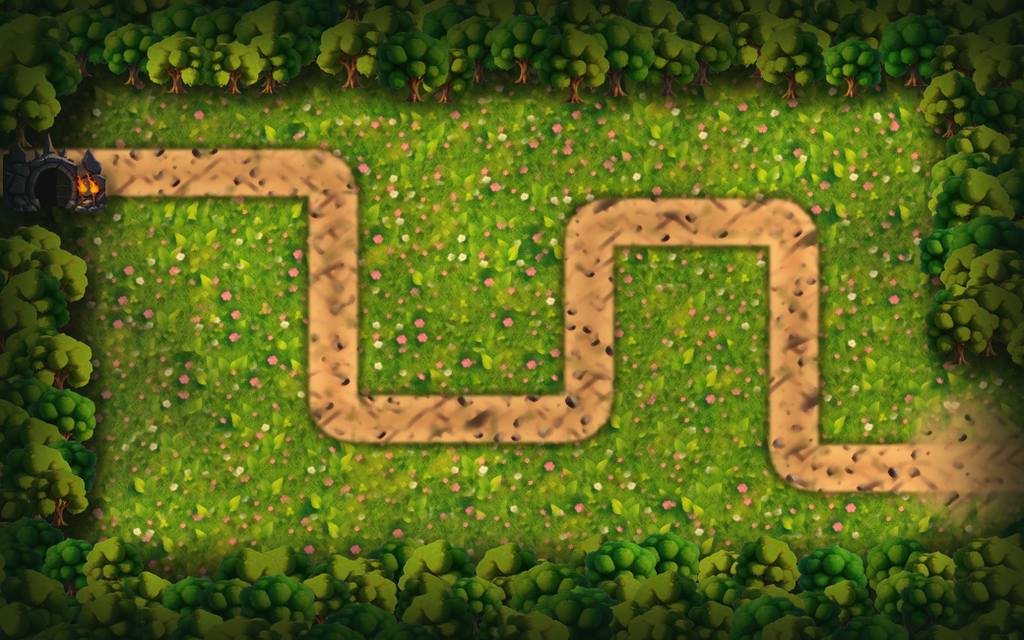
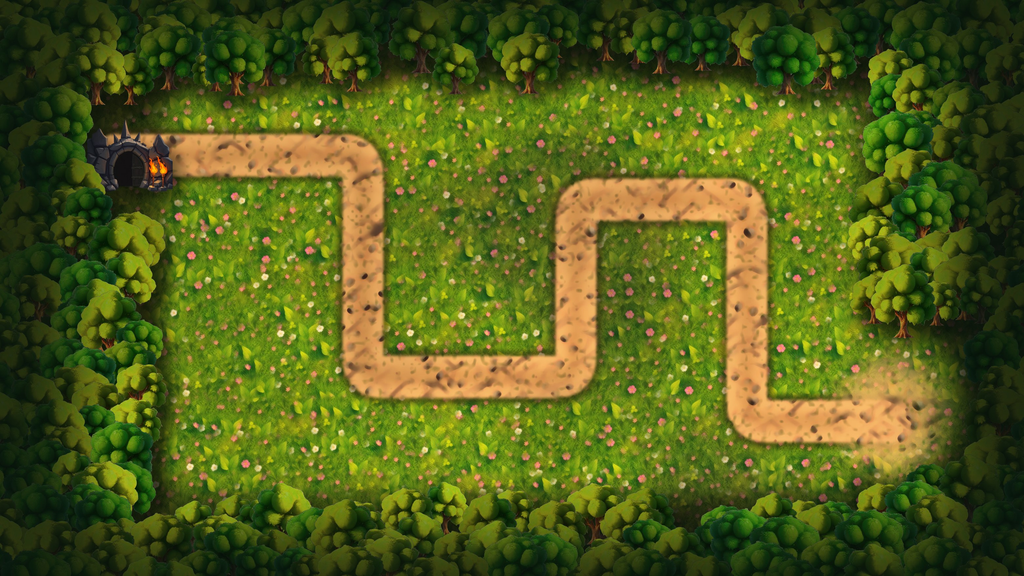
Widen the forest margin to four cells left and right
The board below the top bar is up to 22.7 cells wide on iPhone, so a
two-cell margin left bare strips. Ground repainted at 24 x 13 cells,
path ending in the cave and at the fortress.

Claude-Session: https://claude.ai/code/session_019baiHSQy19cYFPdUhfm42L

diff --git a/App/Battle/BattleStyle.swift b/App/Battle/BattleStyle.swift
@@ -13,9 +13,10 @@ enum BattleStyle {
     static let buildZone = SKColor(white: 1, alpha: 0.07)
     static let buildZoneInset: CGFloat = 0.06
     /// So viele Zellen reicht der gemalte Boden links und rechts (`width`) und
-    /// oben und unten (`height`) über das Feld hinaus. Steht auch im
-    /// Asset-Vertrag (`rand`).
-    static let groundMargin = CGSize(width: 2, height: 2)
+    /// oben und unten (`height`) über das Feld hinaus. Unter der Kopfleiste ist
+    /// die Karte auf dem iPhone bis zu 22,7 Zellen breit, auf dem iPad bis zu
+    /// 11,3 hoch. Steht auch im Asset-Vertrag (`rand`).
+    static let groundMargin = CGSize(width: 4, height: 2)
 
     static func towerColor(_ kind: TowerKind) -> SKColor {
         switch kind {

diff --git a/tools/art-check/tests/test_art.py b/tools/art-check/tests/test_art.py
@@ -304,17 +304,18 @@ class Kampfplatzbild(unittest.TestCase):
         karte = json.load(open(konf))["map"]
         vertrag = json.load(open(os.path.join(WURZEL, "art/asset-vertrag.json")))
         regel = vertrag["assets"]["map_mission01_ground"]
-        m = regel["rand"]
-        self.assertEqual(regel["zellen"], [karte["width"] + 2 * m, karte["height"] + 2 * m])
+        mx, my = regel["rand"]  # Zellen links/rechts und oben/unten (BattleStyle.groundMargin)
+        self.assertEqual(regel["zellen"], [karte["width"] + 2 * mx, karte["height"] + 2 * my])
         bild = Image.open(os.path.join(WURZEL, "App/Assets.xcassets/Maps/map_mission01_ground.imageset/map_mission01_ground@3x.jpg")).convert("RGB")
         z = bild.width / regel["zellen"][0]
-        px = lambda x, y: bild.getpixel((int((x + m) * z), int((y + m) * z)))
+        px = lambda x, y: bild.getpixel((int((x + mx) * z), int((y + my) * z)))
         for x, y in karte["path"][1:-1]:
             p = px(x, y)
             self.assertGreater(p[0], p[1], (x, y))  # Erde, nicht Gras
         hell = lambda x, y: sum(px(x, y)) / 3
         feld = sum(hell(x + 0.5, y + 0.5) for x in range(karte["width"]) for y in range(karte["height"])) / (karte["width"] * karte["height"])
-        for x, y in ((-1.5, karte["height"] / 2), (karte["width"] / 2, -1.5), (karte["width"] / 2, karte["height"] + 1.5)):
+        for x, y in ((-1.5, karte["height"] / 2), (-mx + 0.5, karte["height"] / 2), (karte["width"] + mx - 0.5, 1.5),
+                     (karte["width"] / 2, -1.5), (karte["width"] / 2, karte["height"] + 1.5)):
             self.assertLess(hell(x, y), feld * 0.8, (x, y))
 
 

diff --git a/.claude/skills/spielgrafik/scripts/kampfplatz.py b/.claude/skills/spielgrafik/scripts/kampfplatz.py
@@ -38,6 +38,7 @@ UEBERHANG = 0.2   # Zellen, so weit darf eine Krone ins Feld ragen
 WEGBREITE = 0.95  # Zellen; BattleStyle.pathWidth (0,8) ist die Linie der Platzhaltergrafik
 ECKE = 0.45       # Zellen, Halbmesser der Wegecken
 FESTUNG = (W + 0.9, pfad[-1][1] - 0.4, 1.7)  # Mitte x, y und Halbmesser des Festungsplatzes
+HOEHLE_X = -0.95  # Mitte der Hoehle am Wegeingang, in Zellen
 
 
 def lade(muster):
@@ -83,9 +84,10 @@ def gerundet(punkte):
     return aus
 
 
-# Weg reicht ueber beide Enden hinaus: links in die Hoehle, rechts unter die Festung.
-ende = (pfad[-1][0] + MX, pfad[-1][1])
-weglinie = gerundet([(pfad[0][0] - MX, pfad[0][1])] + pfad[1:-1] + [ende])
+# Weg endet links in der Hoehle und rechts im Festungshof, nicht am Bildrand:
+# Bei breitem Rand lief er sonst sichtbar hinter beiden weiter in den Wald.
+ende = (FESTUNG[0], pfad[-1][1])
+weglinie = gerundet([(HOEHLE_X - 0.35, pfad[0][1])] + pfad[1:-1] + [ende])
 wegpixel = [at(*p) for p in weglinie]
 dichte = [(weglinie[i][0] + (weglinie[i + 1][0] - weglinie[i][0]) * t / 4,
            weglinie[i][1] + (weglinie[i + 1][1] - weglinie[i][1]) * t / 4)
@@ -163,7 +165,7 @@ hindernisse = []  # (x, y, Halbmesser) in Zellen
 hoehle = lade("hoehle*.png")
 if hoehle:
     # Die Gegner kommen aus der Hoehle der Kampagnenkarte (Bosshoehle m7).
-    hx, hy = -0.95, pfad[0][1]
+    hx, hy = HOEHLE_X, pfad[0][1]
     setze(hoehle[0], *at(hx, hy), C * 2.0, spiegeln=True, schatten=0.5)
     hindernisse.append((hx, hy, 1.0))
 hindernisse.append((fx, fy, fr))

diff --git a/art/karten/ENTSTEHUNG.md b/art/karten/ENTSTEHUNG.md
@@ -3,29 +3,30 @@
 ## `map_mission01_ground` (Mission 1, Lichtung im Flüsterwald)
 
 Grafik 05 (26.10.2026, [Konzept](../../docs/konzepte/grafik-05-kampfplatz.md)).
-Das Bild deckt das Feld **plus 2 Zellen Rand** je Seite (20 × 13 Zellen), der
-Rand ist Wald und füllt iPhone-Breite und iPad-Höhe. Der Weg liegt auf der
+Das Bild deckt das Feld **plus 4 Zellen Rand links und rechts und 2 oben und
+unten** (24 × 13 Zellen). Der Rand ist Wald und füllt die Karte unter der
+Kopfleiste: auf dem iPhone bis 22,7 Zellen breit, auf dem iPad bis 11,3 hoch. Der Weg liegt auf der
 Geometrie aus `mvp-mission-01.json` (`map.path`), Bäume nur im Rand.
 
-1. **Collage:** `kampfplatz.py mvp-mission-01.json <teile> aus.png 130 2` mit den
+1. **Collage:** `kampfplatz.py mvp-mission-01.json <teile> aus.png 130 4x2` mit den
    Teilen der Kampagnenkarte (Gras, Weg, Bäume, Höhle; zerlegt aus
-   `region01/`, siehe unten). Zufall fest (`random.Random(7)`). Auf 1024 × 640
-   verkleinert → `mission01-collage.png`.
+   `region01/`, siehe unten). Zufall fest (`random.Random(7)`). Auf 1024 × 576
+   verkleinert → `mission01-collage.png` (1152 × 640 lief über den Speicher).
 2. **Übermalen:** `INIT=mission01-collage.png STAERKE=0.4 VERSCHIEBUNG=0.5
-   erzeugen.sh aus 5 "<prompt>" 1024x640` → `mission01-rohbild.png`. Prompt:
+   erzeugen.sh aus 5 "<prompt>" 1024x576` → `mission01-rohbild.png`. Prompt:
    `mobile strategy game battlefield seen from directly above, a sunlit forest clearing surrounded by dense round tree canopies, stylized 3D cartoon render, hand-painted textures, vibrant saturated colors, lush green grass with subtle variation and small flowers, a winding packed brown dirt path with small pebbles and grass tufts along its edges, a dark rocky goblin cave entrance on the left, warm afternoon light from top left, soft tree shadows, highly detailed, no buildings, no characters, no text, no letters, full bleed`.
    Das Übermalen vereinheitlicht Licht und Malstil von Gras, Weg und Wald.
-3. **Retusche:** `RAND=6 retusche.py rohbild retusche "358,322,412,372:425,322"`
-   → `mission01-retusche.png`. Entfernt eine kleine Figur mit roter Mütze auf
-   einer Bauzelle (trotz „no characters").
-4. **Hochrechnen:** `hochskalieren.sh retusche aus 2580x1677` (Real-ESRGAN x4
-   anime 6B, Lanczos), `atlas.py aus map_mission01_ground 20x13 voll _
+3. **Hochrechnen:** `hochskalieren.sh rohbild aus 3096x1677` (Real-ESRGAN x4
+   anime 6B, Lanczos), `atlas.py aus map_mission01_ground 24x13 voll _
    App/Assets.xcassets/Maps` (JPEG, Qualität 88).
 
 **Verworfen:** die erste Fassung (0.5.2 bis 0.10.3): Wiese ohne Rand mit
 rechtwinkligem Sandband, gemalt nach `karte_zusammensetzen.py`. Flach, ohne
 Wald, nicht aus derselben Welt wie die Kampagnenkarte (Steffen, 26.10.2026:
 „sieht noch billig und nicht abgestimmt mit dem rest aus").
+Dazu eine Zwischenfassung mit 2 Zellen Rand ringsum (20 × 13): Im
+Simulator-Probelauf blieben links und rechts je 1,3 Zellen leer, weil die Karte
+unter der Kopfleiste breiter ist als der Bildschirm.
 
 ## `map_region01` (Kampagnenkarte Region 1, Flüsterwald)
 

diff --git a/docs/konzepte/grafik-05-kampfplatz.md b/docs/konzepte/grafik-05-kampfplatz.md
@@ -35,7 +35,7 @@ Festung, die man schützen will.
 | Teil | Was |
 |---|---|
 | Fehler | Bodenbild unter alles (`zPosition` −1), Festung über Boden und Bauzonen |
-| Boden mit Rand | `map_mission01_ground` deckt das Feld **plus 2 Zellen Rand** je Seite: 20 × 13 Zellen, 130 px je Zelle (2600 × 1690). Der Rand ist Wald und reicht für iPhone-Breite und iPad-Höhe |
+| Boden mit Rand | `map_mission01_ground` deckt das Feld **plus 4 Zellen Rand links und rechts, 2 oben und unten**: 24 × 13 Zellen (3096 × 1677 @3x). Der Rand ist Wald. Er muss die Karte unter der Kopfleiste füllen, und die ist auf dem iPhone bis 22,7 Zellen breit, auf dem iPad bis 11,3 hoch (zuerst mit 2 Zellen ringsum geplant, im Probelauf zu schmal) |
 | Boden gemalt | Collage wie die Kampagnenkarte (`regionscollage.py`-Weg): Gras- und Wegtextur, Bäume und Höhle aus `art/karten/region01`. Weg mit runden Ecken und dunklerer Furche, Lichtflecken, Baumschatten, warmes Licht |
 | Festung | neu gemalt, Perspektive und Stil der Türme (45° von oben, Konturen), Tor nach links zum Weg, größer (3 Zellen) und ganz im rechten Rand, damit sie keine Bauzelle verdeckt |
 
@@ -44,8 +44,8 @@ Festung, die man schützen will.
 
 ## Architektur
 
-- `BattleStyle.groundMargin` (Zellen) ist die eine Stelle für den Rand. Der
-  Asset-Vertrag nennt `zellen: [20, 13]` und `rand: 2`; die Kunstprüfung hält
+- `BattleStyle.groundMargin` (Zellen, waagrecht und senkrecht) ist die eine Stelle
+  für den Rand. Der Asset-Vertrag nennt `zellen: [24, 13]` und `rand: [4, 2]`; die Kunstprüfung hält
   beide zusammen.
 - `BattleSprites.ground` legt das Bild von Zelle (−Rand, −Rand) bis
   (Breite + Rand, Höhe + Rand). `BoardLayout` bleibt unverändert: Eingabe und
@@ -59,7 +59,7 @@ Festung, die man schützen will.
 - `BattleSceneTests`: Festung liegt über dem Boden (`zPosition`), Bodenbild
   deckt die ganze Szene für iPhone- und iPad-Seitenverhältnis, Festungsbild
   überdeckt keine Bauzelle. Jeder Test einmal rot.
-- `tools/art-check`: Vertrag (Größe 20 × 13 Zellen), Weg im Bild liegt auf der
+- `tools/art-check`: Vertrag (Größe 24 × 13 Zellen), Weg im Bild liegt auf der
   Weggeometrie (wie bisher, um den Rand verschoben), Rand ist dunkler als das
   Feld (Wald).
 - Simulator-Probelauf: Bildschirmfotos der Mission ansehen, bevor ausgeliefert
@@ -67,7 +67,7 @@ Festung, die man schützen will.
 
 ## Risiken
 
-- **Speicher:** 2600 × 1690 JPEG sind dekomprimiert etwa 17 MB. Vertretbar für
+- **Speicher:** 3096 × 1677 JPEG sind dekomprimiert etwa 21 MB. Vertretbar für
   ein Bild je Mission.
 - **Bäume am Rand verdecken Gegner am Wegeingang.** Der Weg beginnt bei x = −1;
   der Waldrand bekommt dort eine Lücke mit der Höhle, Bäume halten Abstand vom Weg.

diff --git a/CHANGELOG.md b/CHANGELOG.md
@@ -15,8 +15,8 @@ Jede Auslieferung auf `main` bekommt hier einen Eintrag, neueste oben.
 
 **Neu**
 - Der Kampfplatz ist eine Lichtung im Flüsterwald, aus denselben gemalten Teilen
-  wie die Kampagnenkarte: Waldrand bis an den Bildschirmrand (2 Zellen Rand je
-  Seite, auf iPhone und iPad ohne leere Streifen), Weg mit runden Ecken, die
+  wie die Kampagnenkarte: Waldrand bis an den Bildschirmrand (4 Zellen links und
+  rechts, 2 oben und unten, auf iPhone und iPad ohne leere Streifen), Weg mit runden Ecken, die
   Goblinhöhle am Wegeingang, warmes Licht und Baumschatten.
 - Neue Festung: Zwergenfeste mit zwei Ecktürmen, Fackeln und Bannern, im Stil
   der Türme. Sie steht im rechten Rand und verdeckt keine Bauzelle.
@@ -26,8 +26,9 @@ Jede Auslieferung auf `main` bekommt hier einen Eintrag, neueste oben.
   mit `ignoresSiblingOrder` lag der Boden oben.
 
 **Tests**
-- App: Boden deckt die ganze Szene (iPhone und iPad), Festung über Boden und
-  Bauzonen, Festung über keiner Bauzelle. Kunstprüfung: Vertrag 20 × 13 Zellen,
+- App: Boden deckt die ganze Szene (iPhone und iPad, mit und ohne Kopfleiste),
+  Festung über Boden und Bauzonen, Festung über keiner Bauzelle. Kunstprüfung:
+  Vertrag 24 × 13 Zellen,
   Weg im Bild auf der Weggeometrie, Waldrand dunkler als das Feld, Collage legt
   keine Bäume auf Bauzellen.
 

diff --git a/.claude/skills/spielgrafik/SKILL.md b/.claude/skills/spielgrafik/SKILL.md
@@ -40,8 +40,10 @@ description: Hochwertige Spielgrafik (App-Symbole, Figuren, Store-Bilder, Hinter
 - **Kampfplatz (Boden einer Mission):** `kampfplatz.py <mission.json> <teile>
   <aus> [px_je_zelle] [rand] [vorschau]` setzt aus den Teilen der Regionskarte
   eine Lichtung: Weg auf der Weggeometrie, Bäume nur im Rand (nie auf
-  Bauzellen), Höhle am Wegeingang, Licht und Schatten. Danach verkleinern und
-  einmal übermalen (`STAERKE=0.4 VERSCHIEBUNG=0.5`, 1024x640): Das vereinheitlicht
+  Bauzellen), Höhle am Wegeingang, Licht und Schatten. Rand je Achse (`4x2`):
+  Die Karte unter der Kopfleiste ist breiter als der Bildschirm. Danach verkleinern und
+  einmal übermalen (`STAERKE=0.4 VERSCHIEBUNG=0.5`, höchstens 1024x640: 1152x640
+  bricht beim Entschlüsseln mit Speichermangel ab, 16 GB): Das vereinheitlicht
   den Malstil, und der Weg bleibt liegen. Kleine Figuren, die FLUX trotz „no
   characters" hineinmalt, mit `retusche.py` entfernen.
 - **Lange Läufe in der Cloud:** Ein 512er-Bild braucht rund 12 Minuten, 1024x640
